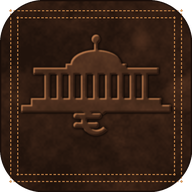
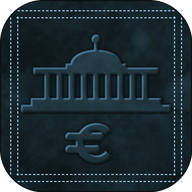
Blue leather in the artwork, and a euro that reads (#93)
The blue was a CSS hue-rotate over tan artwork, applied to the dashboard mark
and only in dark mode. So the app looked blue while the icon on the home screen,
which no stylesheet reaches, had been brown all along.

It is in the artwork now. The tan values were carried through the exact
transform the filter was doing — hue +178, saturation x0.72, lightness x0.94 —
and written down, so nothing is guessed at:

  hide, 4 tones   (33,19,12)..(178,112,69)  ->  (14,24,28)..(79,126,153)
  edge            (26,14,9)                 ->  (11,19,22)
  tooling, 4      (18,10,6)..(196,128,80)   ->  (7,13,15)..(85,140,174)

Those four tooling colours were the catch. The first regeneration gave blue
leather with a copper building, because the groove, the lift, the rim and the
shadow were hardcoded tan and only the hide had been changed. They are named
constants now rather than magic numbers.

The thread is not carried through with them. Dyed the same as the hide it went
blue on blue and all but disappeared, and the stitching is a large part of what
makes the tile read as a wallet. It is lifted clear of the leather instead.

The CSS filter is gone — verified none in both themes. Rotating hues that are
already blue would send them somewhere else again.

The euro also grew, 0.22 to 0.30 of the emblem width, and is centred in the
space under the building rather than hung a fixed distance below it. Tucking it
under the steps had merged the two into one shape and cost the euro its outline.
[…]

diff --git a/index.html b/index.html
@@ -228,15 +228,10 @@ button{cursor:pointer;background:none;border:none;padding:0}
   box-shadow:0 1px 4px rgba(0,0,0,.18);
   transition:filter .2s;
 }
-/* The mark is tanned leather, which against a near-black blue ground reads as
-   an orange stain rather than as the app's own. Turned toward the blue the rest
-   of the dark theme is built from, it belongs to the bar it sits on — the grain
-   and the emboss survive, only the dye changes. Light theme keeps the tan,
-   which sits perfectly well on white. */
-:root[data-theme="dark"] .applogo{ filter:hue-rotate(178deg) saturate(.72) brightness(.94) }
-@media (prefers-color-scheme:dark){
-  :root:not([data-theme="light"]) .applogo{ filter:hue-rotate(178deg) saturate(.72) brightness(.94) }
-}
+/* No tint. The blue is in the artwork now rather than applied here, which is
+   what makes the home screen icon and the mark in the bar the same colour —
+   a stylesheet never reaches the installed icon. Rotating hues that are already
+   blue would send them somewhere else again. */
 .applogo[hidden]{display:none}
 .brand{
   display:flex; flex-direction:column; align-items:flex-start; gap:1px;
@@ -3967,8 +3962,8 @@ html.locked #lockScreen::before{
 
 /* Both lines are rewritten by tools/bump-version.mjs on every release —
    edit the scheme there, not here. */
-const APP_VERSION = "2.0.32";
-const APP_BUILT = "2026-09-04";
+const APP_VERSION = "2.0.33";
+const APP_BUILT = "2026-09-05";
 
 const KEY = "panappai.v1";
 const THEME_KEY = "panappai.theme";

diff --git a/sw.js b/sw.js
@@ -1,6 +1,6 @@
 /* Bump VERSION on every release: activate() purges any cache that isn't the
    current one, which is what lets a new build actually replace the old one. */
-const VERSION = "2.0.32";
+const VERSION = "2.0.33";
 const CACHE = "panappai-" + VERSION;
 
 const ASSETS = [

diff --git a/tools/make-icons.py b/tools/make-icons.py
@@ -1,5 +1,5 @@
-"""Draft icon: the whole tile is the wallet — dark distressed leather edge to
-edge, with Sansad Bhavan tooled into it above a small euro.
+"""Draft icon: the whole tile is the wallet — dark distressed blue leather edge
+to edge, with Sansad Bhavan tooled into it above a euro.
 
 No backdrop: the hide is the icon, so there is no frame around it and nothing
 to go transparent on iOS. Stitching runs inset from all four edges the way it
@@ -19,14 +19,34 @@ import os, random, sys
 OUT = sys.argv[1] if len(sys.argv) > 1 else os.path.join(
     os.path.dirname(os.path.dirname(os.path.abspath(__file__))), "icons")
 
-# the hide, from the near-black creases to the rust-lit high spots
-HIDE_0 = (33, 19, 12)
-HIDE_1 = (74, 44, 28)
-HIDE_2 = (124, 75, 47)
-HIDE_3 = (178, 112, 69)
+# The hide, from the near-black creases to the lit high spots. Blue leather,
+# not tan.
+#
+# The blue used to be a CSS filter over tan artwork, applied on the dashboard
+# mark and only in dark mode — so the app looked blue while the icon on the home
+# screen, which no stylesheet reaches, stayed brown. These are those same tan
+# values carried through the filter that was doing the work (hue +178°,
+# saturation x0.72, lightness x0.94) and written down, so the colour is in the
+# artwork and every place the icon appears agrees.
+HIDE_0 = (14, 24, 28)
+HIDE_1 = (32, 54, 64)
+HIDE_2 = (54, 89, 106)
+HIDE_3 = (79, 126, 153)
 
-EDGE   = (26, 14,  9)
-THREAD = (196, 132, 72)
+EDGE   = (11, 19, 22)
+# Thread, not leather. Carried through the same shift as the hide it went blue
+# on blue and all but disappeared — the stitching is a big part of what makes
+# the tile read as a wallet, so it is lifted well clear of the dye instead.
+THREAD = (168, 205, 232)
+
+# The four passes that tool the emblem into the hide: the groove the die cut,
+# the hide lifted inside it, the rim of light along the top-left and the shadow
+# opposite. Carried through the same shift as the hide, so the emblem is cut
+# from the leather it sits in rather than glued on in another colour.
+GROOVE = (7, 13, 15)
+LIFT   = (14, 24, 29)
+RIM    = (85, 140, 174)
+SHADE  = (16, 28, 32)
 
 
 def noise(S, cells, seed, blur=0):
@@ -164,18 +184,21 @@ def euro(d, cx, cy, size, weight):
 
 
 # How much of the euro's height sits behind the building's bottom step.
-EURO_OVERLAP = 0.20
 STEP_BOT_F = 0.40      # kept in step with parliament()'s own STEP_BOT
 
 
-def emblem_mask(S, cx, cy, w, h, esz, ew):
+def emblem_mask(S, cx, cy, w, h, esz, ew, bottom):
+    """`bottom` is where the usable space under the building ends — the inner
+    stitch line on the tile, the safe zone on the maskable cut. The euro is put
+    in the middle of what is left, rather than a fixed gap below the steps: a
+    gap leaves it hanging off the building with a pool of empty hide beneath,
+    and the size it wants to be then depends on how much room happens to be
+    left over."""
     m = Image.new("L", (S, S), 0)
     d = ImageDraw.Draw(m)
     parliament(d, cx, cy, w, h)
-    # top of the euro = bottom of the steps, less the overlap; so its centre is
-    # half a height lower than that, which is the line solved for here.
-    ecy = cy + h * STEP_BOT_F + esz * (0.5 - EURO_OVERLAP)
-    euro(d, cx, ecy, esz, ew)
+    top = cy + h * STEP_BOT_F          # where the bottom step ends
+    euro(d, cx, (top + bottom) / 2.0, esz, ew)
     return m
 
 
@@ -193,26 +216,28 @@ def draw(px, maskable=False):
     bw = S - inset * 2
     cy = S * (0.48 if maskable else 0.44)
     bh = bw * 0.52
-    # The euro, larger, and tucked under the building rather than floating below
-    # it. The overlap is derived rather than eyeballed: STEP_BOT is where the
-    # building ends, so placing the euro's centre a fixed fraction of its own
-    # height below that line puts exactly EURO_OVERLAP of it behind the steps.
-    esz = bw * 0.22
+    # The euro, big enough to read at a glance, centred in the space under the
+    # building rather than hung a fixed distance below it.
+    esz = bw * 0.30
     ew = max(3, int(esz * 0.19))
     off = max(3, int(S * 0.0075))
 
-    face = emblem_mask(S, S / 2, cy, bw, bh, esz, ew)
+    # where that space ends: the inner row of stitching on the tile, and on the
+    # maskable cut the point past which a launcher may crop
+    ebot = S * (0.86 if maskable else 0.908)
+
+    face = emblem_mask(S, S / 2, cy, bw, bh, esz, ew, ebot)
     groove = face.filter(ImageFilter.GaussianBlur(off * 1.1)).point(
         lambda v: min(255, v * 3))
-    panel = Image.composite(Image.new("RGB", (S, S), (18, 10, 6)), panel, groove)
+    panel = Image.composite(Image.new("RGB", (S, S), GROOVE), panel, groove)
     panel = Image.composite(
-        ImageChops.screen(hide(S, 61), Image.new("RGB", (S, S), (34, 20, 12))),
+        ImageChops.screen(hide(S, 61), Image.new("RGB", (S, S), LIFT)),
         panel, face.filter(ImageFilter.GaussianBlur(off * 0.3)))
     lit = ImageChops.subtract(face, ImageChops.offset(face, off, off))
     dim = ImageChops.subtract(face, ImageChops.offset(face, -off, -off))
-    panel = Image.composite(Image.new("RGB", (S, S), (196, 128, 80)), panel,
+    panel = Image.composite(Image.new("RGB", (S, S), RIM), panel,
                             lit.filter(ImageFilter.GaussianBlur(off * 0.45)))
-    panel = Image.composite(Image.new("RGB", (S, S), (38, 21, 13)), panel,
+    panel = Image.composite(Image.new("RGB", (S, S), SHADE), panel,
                             dim.filter(ImageFilter.GaussianBlur(off * 0.45)))
 
     img.paste(panel, (0, 0), mask)

diff --git a/RELEASES.md b/RELEASES.md
@@ -8,6 +8,10 @@ icon beside it — a repair, something that was not there before, or something
 existing made better. Guessing that from the wording alone does not work: “a bar
 fixed along the bottom” is not a bug.
 
+## 2.0.33 — 2026-09-05
+- better: The app icon is blue leather in the artwork itself, so the home screen icon matches the app instead of staying brown
+- better: The euro on the mark is bigger and centred in the space below the building
+
 ## 2.0.32 — 2026-09-04
 - better: Expenses paid so far uses the same two colours as Money in, money out below it - amber for planned, red for paid
 
